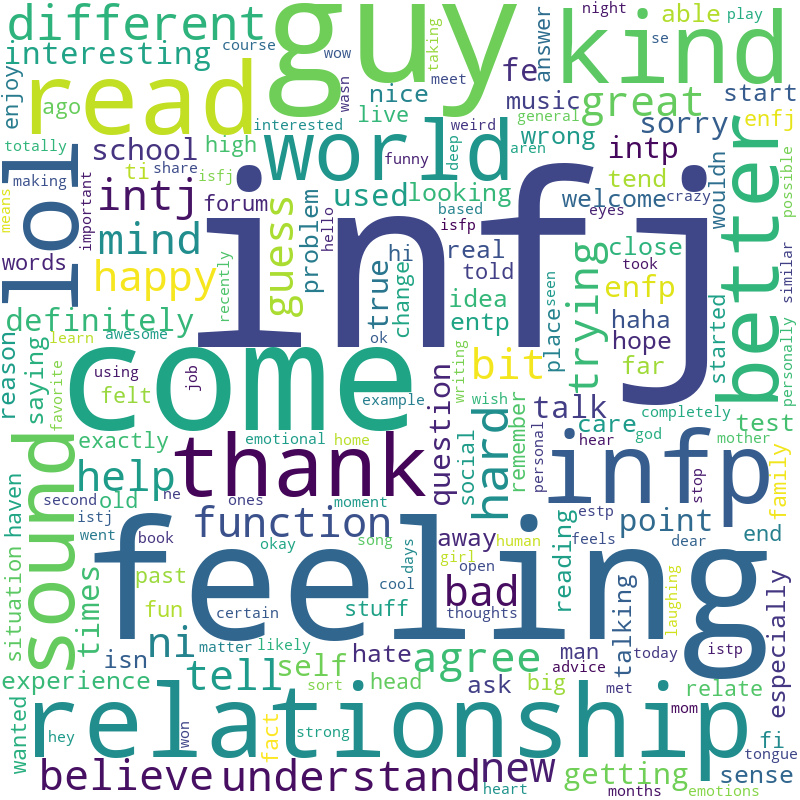
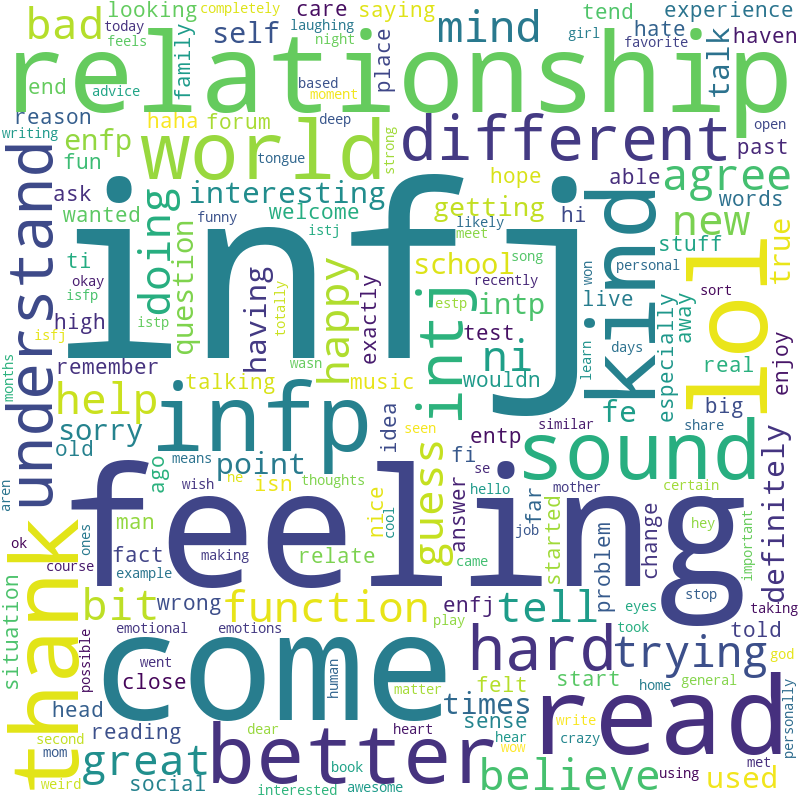
updated stopword list for word clouds

diff --git a/src/tf_idf_word_cloud.py b/src/tf_idf_word_cloud.py
@@ -9,6 +9,14 @@ from sklearn.feature_extraction.text import CountVectorizer
 from wordcloud import WordCloud
 from pipeline_text import *
 
+custom_stopwords = set("like just people don really ve http com make good things https say way going \
+                        lot thing best www youtube ll pretty sure yes no actually right said thanks person \
+                        watch did said does maybe probably type types doesn work life want need didn mean \
+                        yeah usually got look use day long years year think know feel love friend friends \
+                        thinking thought thread post personality mbti try entjs intjs enfps enfjs oh entps \
+                        esfjs estjs dont espts im let time infjs infps quite makes little intps isfjs istps \
+                        jpg guy guys".split())
+
 stopwords_set = stopwords | custom_stopwords
 
 def convert_series_to_list(df, col):
@@ -47,9 +55,10 @@ def create_word_cloud_string(df, col, word_cloud_size = 200, score_scale = 1000)
         word_cloud_string += ((df['index'][word] + " ") * num_occ)
     return word_cloud_string
         
-def create_word_cloud(word_cloud_string, current_type):
+def create_word_cloud(word_cloud_string, stopwords, current_type):
     wordcloud = WordCloud(width = 800, height = 800, 
                 background_color ='white',
+                stopwords = stopwords,
                 collocations=False,
                 min_font_size = 10).generate(word_cloud_string) 
                     
@@ -79,7 +88,7 @@ def word_cloud_generator(df_raw, current_type):
     ranked_word_list = create_ranked_word_list(cv, tf_idf_vector, type_list.index(current_type), f"tfidf-{current_type}")
     # Word Cloud image creator
     word_cloud_string = create_word_cloud_string(ranked_word_list, f"tfidf-{current_type}", word_cloud_size = 200, score_scale = 1000)
-    create_word_cloud(word_cloud_string, current_type)
+    create_word_cloud(word_cloud_string, stopwords_set, current_type)
 
 
 if __name__ == "__main__":

diff --git a/src/pipeline_text.py b/src/pipeline_text.py
@@ -2,13 +2,7 @@ from string import punctuation
 from sklearn.feature_extraction import stop_words
 stopwords = stop_words.ENGLISH_STOP_WORDS
 
-custom_stopwords = set("like just people don really ve http com make good things https say way going \
-                        lot thing best www youtube ll pretty sure yes no actually right said thanks person \
-                        watch did said does maybe probably type types doesn work life want need didn mean \
-                        yeah usually got look use day long years year think know feel love friend friends \
-                        thinking thought thread post personality mbti try entjs intjs enfps enfjs oh entps \
-                        esfjs estjs dont espts im let time infjs infps quite makes little intps isfjs istps \
-                        jpg guy".split())
+
 
 
 def remove_first_last_quote(dataframe, col):

diff --git a/README.md b/README.md
@@ -2,7 +2,13 @@
 
 ---
 ## Overview
-The Myers-Briggs Type Indicator (MBTI) is a personality assessment tool
+The Myers-Briggs Type Indicator (MBTI) is a personality assessment tool that describes human behavior as a function of different preferences around the use of perception and judgement.  
+The Indicator is a 4-letter type, with each letter representing a preference in one of 4 dichotomies:
+- **s :** - Introversion (I) or Extraversion (E)
+- **Information Gathering:** - Intuition (N) or Sensing (S)
+- **Decision Making:** Thinking (T) or Feeling (F)
+- **Structure:** - Judging (J) or Perceiving (P)
+
 
 More information about [Myers-Briggs](https://www.myersbriggs.org/my-mbti-personality-type/mbti-basics/home.htm?bhcp=1).
 
@@ -10,13 +16,18 @@ More information about [Myers-Briggs](https://www.myersbriggs.org/my-mbti-person
 ## Data Source Description
 I used a Kaggle dataset of discussion forum posts at an MBTI-centered site. Two columns are present - the self-reported MBTI type of a user (one user per row) and a set of 50 posts for that user, listed as a single string, separated by a triple pipe ‘|||’.
 
+I was interested to understand how aspects of personality could be detected from posting activity, and what trends within posts may exist that align with the reported personality types.
+
 ---
-## Who is Posting and H
-What kind of MBTI Type tends to be attracted to a discussion forum on MBTI types?
+## Which Personalities Talk About Personalities?
+What kind of MBTI Type tends to be attracted to a discussion forum on MBTI types?  
+Perhaps understandably, the user base is heavily dominated by Intovert (I) and Intuition (N) types, with the top 4 being both I and N (66%).
 
-Log scale - no INxx
+![alt text](/images/post_count_by_type_ei.png)
 
-Note the whitespace differences in the upper right quandrant vs the lower left quadrant
+One theory for the heavy skew in INxx could be that these types tend to explore information and patterns deeply, so a site where they can discuss their 
+
+![alt text](/images/posts_by_user_chi-squared.png)
 
 Further discussion on the INxx types can be found [here](https://personalityjunkie.com/infj-infp-intj-intp-modern-life/).
 
@@ -25,6 +36,10 @@ Further discussion on the INxx types can be found [here](https://personalityjunk
 Not normalized by user count
 
 ![alt text](/images/post_length_hist_by_type.png)
+
+Log scale - no INxx
+
+Note the whitespace differences in the upper right quandrant vs the lower left quadrant
 
 
 ---
@@ -42,6 +57,11 @@ The 8675
 ### Word Clouds
   using tf-idf scoring for top 200 words in each word cloud, I made a string of words for a word cloud.  This strgin was generated by multiplying each word's score by 1000, rounding to nearest integer, and adding the word that many times to the string wiht spacing.
   Important to set 'Collocations = False' or the word cloud will generate word pairs given the list is sorted by duplicates
+
+
+![alt text](/images/word_cloud_ISTJ.png)
+
+![alt text](/images/word_cloud_ENFP.png)
 
 ## Future improvements
  Additional cleaning of word list!  Stemming, Lemmatization
